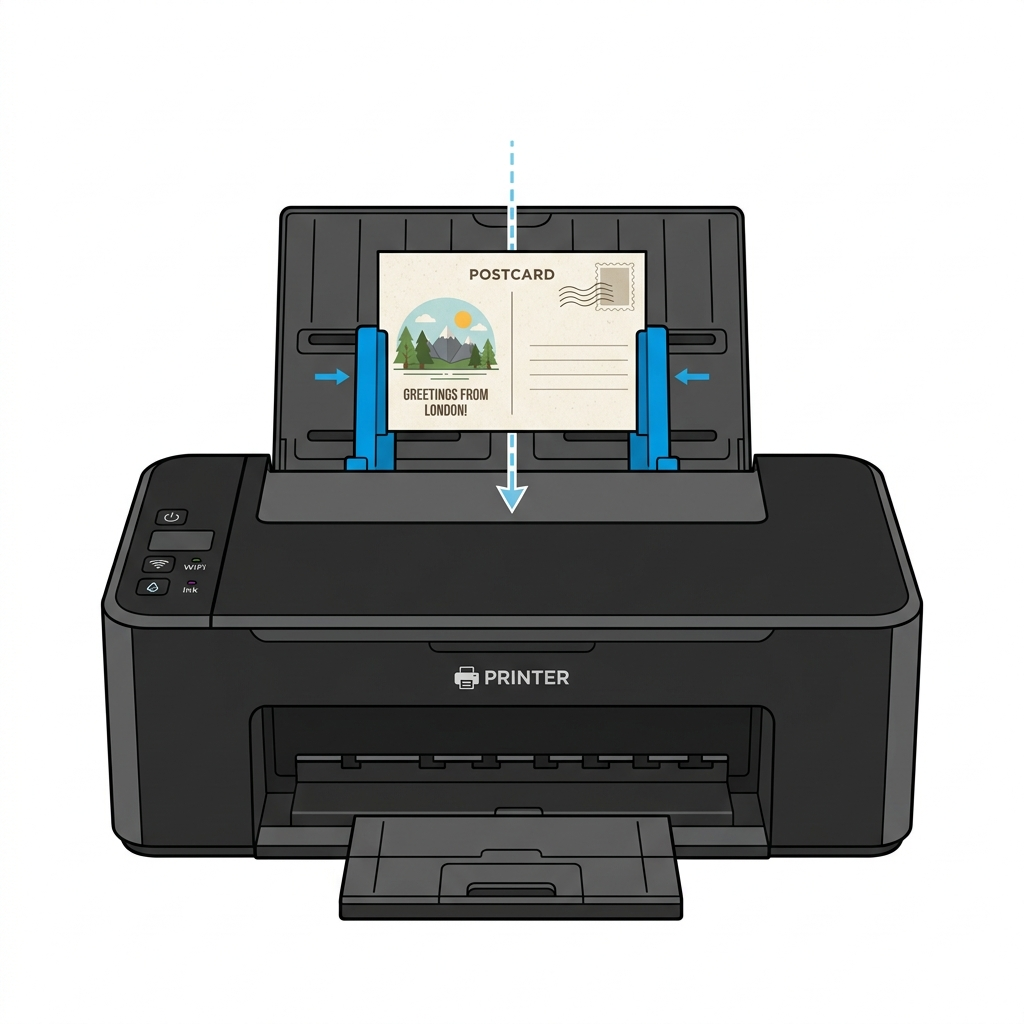
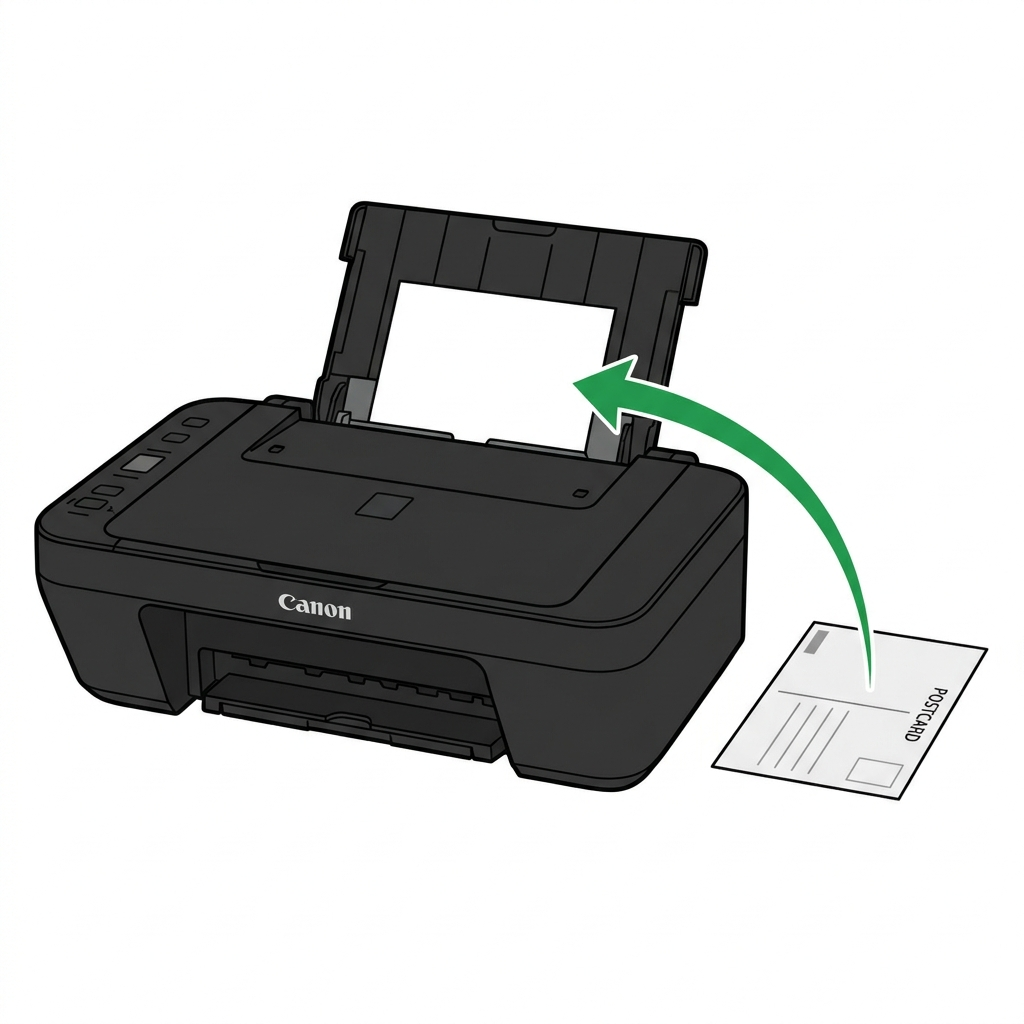
Add arrow to both printer graphics to clearly show insertion orientation

diff --git a/src/pages/WorldCupPortal.jsx b/src/pages/WorldCupPortal.jsx
@@ -409,7 +409,7 @@ function WorldCupPortal() {
                 
                 <div style={{ padding: '1.5rem' }}>
                   <h4 style={{ color: '#0f172a', marginBottom: '0.5rem' }}>แบบที่ 1: ใส่ช่องด้านบน/หลัง (เช่น Canon PIXMA iP2700)</h4>
-                  <p style={{ fontSize: '0.9rem', color: '#475569', marginBottom: '1rem' }}>สอดกระดาษลงไป <strong>แนวนอน</strong> ตรงกลาง โดยมีตัวบีบทั้งซ้ายและขวา <br/><strong>บนเว็บให้เลือก:</strong> แนวนอน</p>
+                  <p style={{ fontSize: '0.9rem', color: '#475569', marginBottom: '1rem' }}>สอดกระดาษลงไป <strong>แนวนอน</strong> ตรงกลาง <strong>(หงายหน้าเปล่าขึ้น หันหัวไปรษณียบัตรไปทางขวา)</strong><br/><strong>บนเว็บให้เลือก:</strong> แนวนอน</p>
                   <div style={{ border: '1px solid #e2e8f0', borderRadius: '8px', padding: '1rem', marginBottom: '2rem', textAlign: 'center', background: '#f8fafc' }}>
                     <img src="./guide_ip2700.png" alt="การป้อนกระดาษแนวนอน Canon iP2700" style={{ maxWidth: '100%', height: 'auto', maxHeight: '200px' }} />
                   </div>